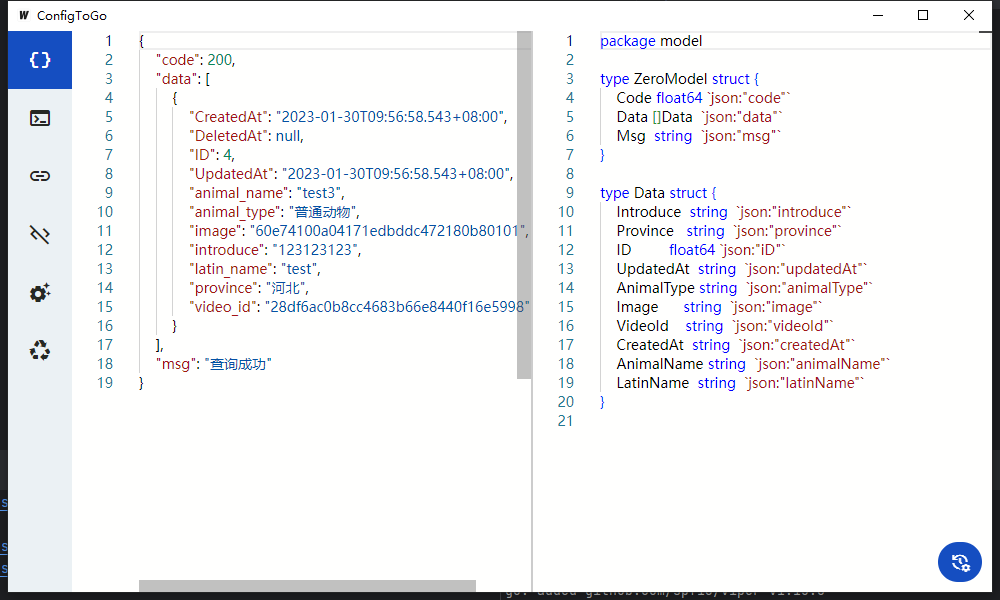
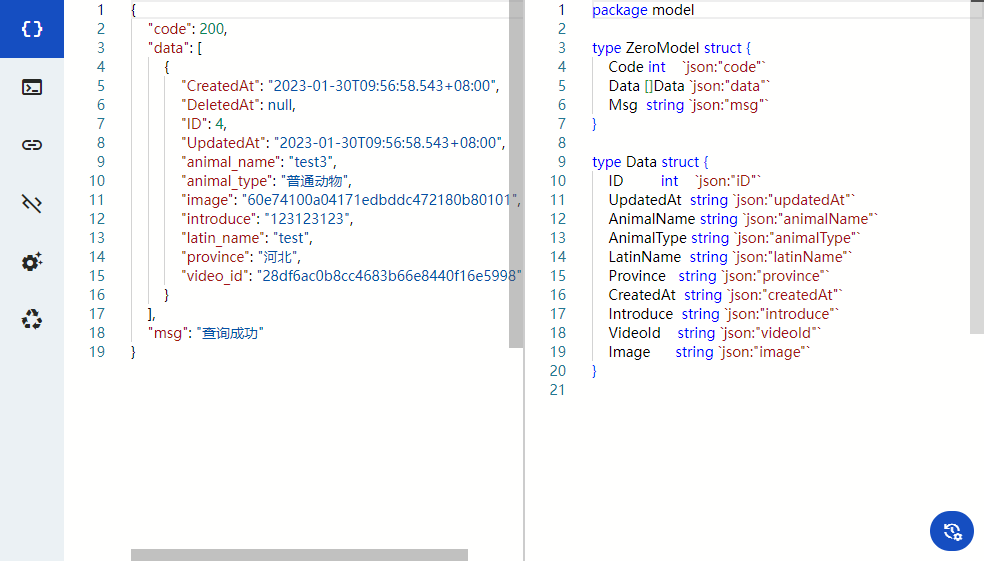
fix number accuracy

Changed region(s): [[0.0, 0.0, 1.0, 1.0], [0.1524, 0.5152, 0.2744, 0.6364], [0.5183, 0.0, 0.7317, 0.0606]]

diff --git a/service.go b/service.go
@@ -225,15 +225,6 @@ func rangeMap(data any, structName string, listData *[]model.ResData, cont int, 
 		Name: strings.ToTitle(structName[:1]) + structName[1:],
 	})
 	var paramData []model.Param
-	switch data.(type) {
-	case interface{}:
-		break
-	case map[string]interface{}:
-		break
-	default:
-
-		break
-	}
 	for k, v := range data.(map[string]interface{}) {
 		switch v.(type) {
 		case map[string]interface{}:
@@ -273,7 +264,7 @@ func rangeMap(data any, structName string, listData *[]model.ResData, cont int, 
 					tmpData := utils.Case(k)
 					paramData = append(paramData, model.Param{
 						Name:    tmpData,
-						Type:    "[]" + reflect.TypeOf(v.([]interface{})[0]).String(),
+						Type:    "[]" + utils.GetType(v.([]interface{})[0]),
 						Tag:     strings.ToLower(tmpData[:1]) + tmpData[1:],
 						TagType: name,
 					})
@@ -301,7 +292,7 @@ func rangeMap(data any, structName string, listData *[]model.ResData, cont int, 
 				tmpData := utils.Case(k)
 				paramData = append(paramData, model.Param{
 					Name:    tmpData,
-					Type:    reflect.TypeOf(v).String(),
+					Type:    utils.GetType(v),
 					Tag:     strings.ToLower(tmpData[:1]) + tmpData[1:],
 					TagType: name,
 				})

diff --git a/utils/getType.go b/utils/getType.go
@@ -1,0 +1,15 @@
+package utils
+
+import (
+	"reflect"
+)
+
+func GetType(data any) string {
+	switch data.(type) {
+	case int, float32, float64, uint, uint8, uint16, uint32, uint64:
+		return "int"
+	default:
+		return reflect.TypeOf(data).String()
+	}
+	return ""
+}
